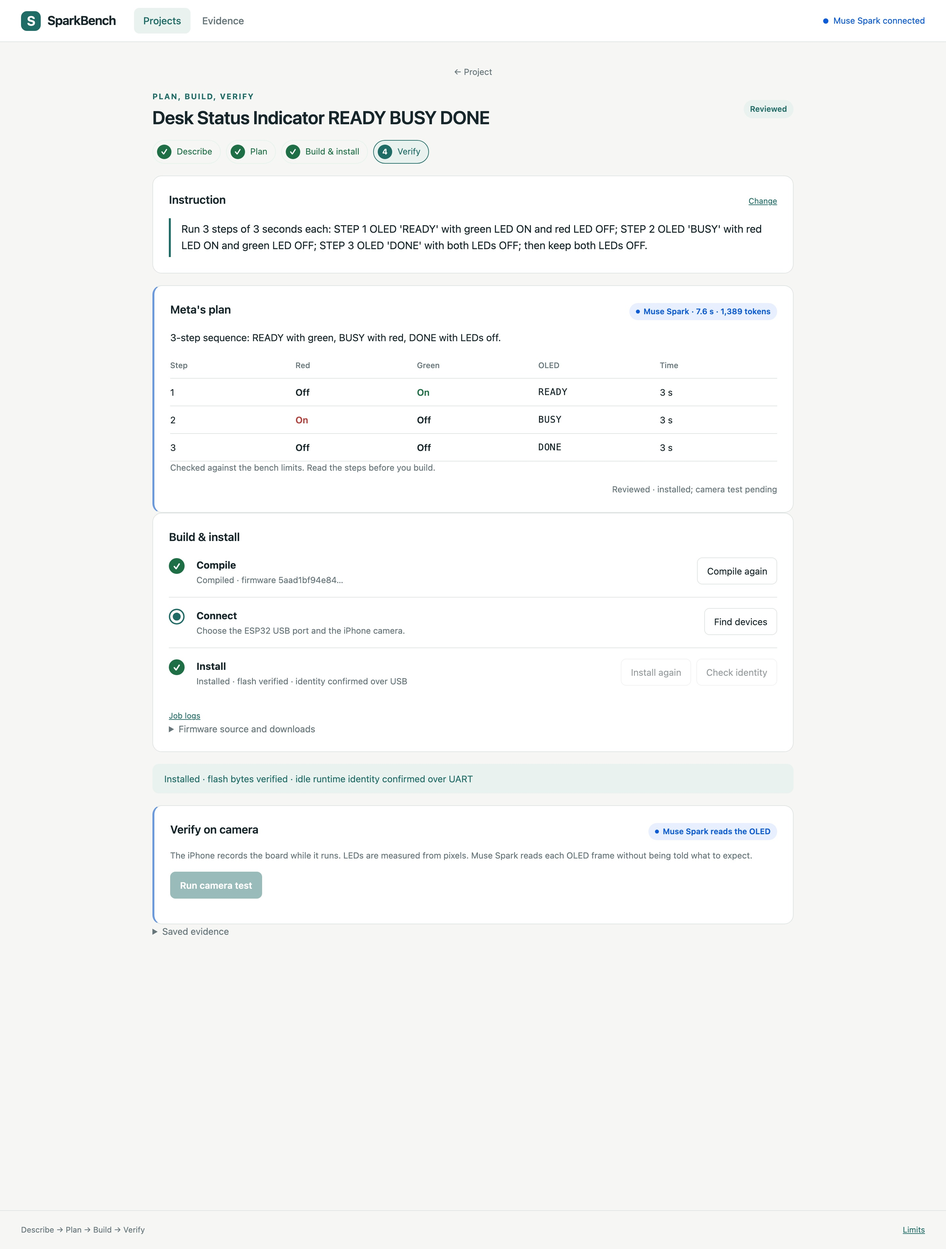
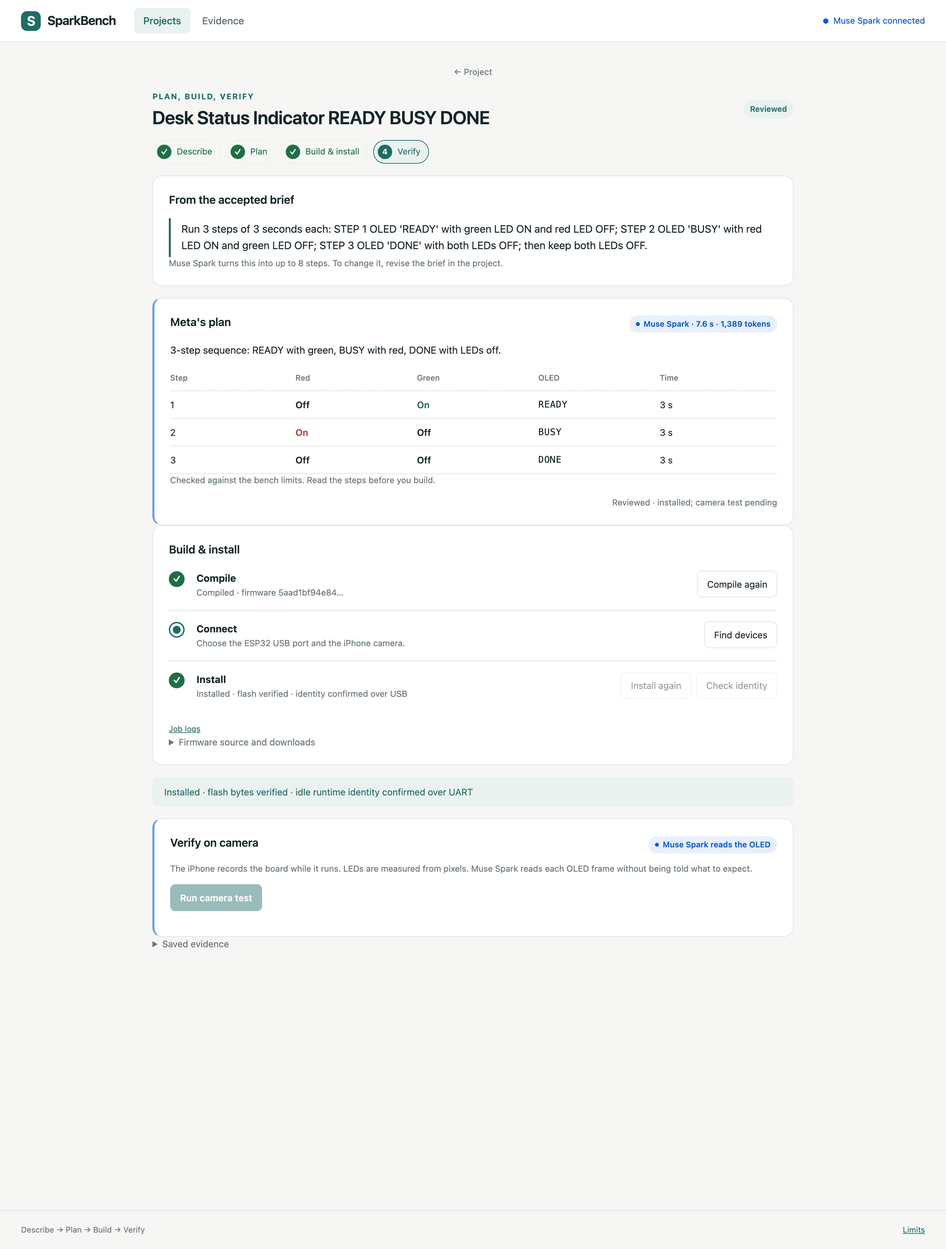
Fold quick plans into projects
A quick plan was the planner step of a project run on its own, and
every project plan also showed up again in the quick-plan list. Make
the project the only entry point.

Remove the quick-plan section from the home page and the instruction
editor from the plan page, which could create plans unlinked to any
project. The plan page now shows the accepted brief's firmware intent
as read-only, is titled with the project name and links back to it.
A clarification, unsupported or failed result says what to change in
the project and offers a way back. The project's second button reads
"Prepare a new plan" once a plan exists.

Server endpoints, the planner benchmark and the recorded evidence are
unchanged; the older quick plan's camera tests stay in Evidence.

diff --git a/src/sparkbench/dashboard/static/planning.js b/src/sparkbench/dashboard/static/planning.js
@@ -1,25 +1,29 @@
 'use strict';
+// The plan page always belongs to a project: its instruction is the accepted brief's firmware intent.
 let plannerSession = null, plannerBusy = false, proposalId = null, proposalResult = null, pollVersion = 0;
 const proposalLabels = {queued:'Generating…',generating:'Generating…',ready:'Ready for review',clarify:'Clarification needed',unsupported:'Unsupported',invalid_response:'Invalid response',error:'Request failed',unavailable:'Unavailable'};
-function showPlanner(){selectionVersion++;clearImage();current=null;const p=project;$('planner-title').textContent=p?(p.accepted?.brief?.title||p.draft?.title||'Project plan'):'Quick plan';$('planner-back').textContent=p?'← Project':'← Projects';showView('planner');}
-// After a plan exists the instruction is shown as a quote; "Change" reopens the editor.
-function showInstructionEditor(edit){$('intent-form').hidden=!edit;$('instruction-view').hidden=edit||!$('instruction-view').textContent;$('edit-instruction').hidden=edit;}
-$('edit-instruction').addEventListener('click',()=>{showInstructionEditor(true);$('intent-input').focus();});
-$('planner-back').addEventListener('click',()=>{if(typeof project!=='undefined'&&project)openProject(project.id);else showView('projects');});
+const unresolvedNotes = {
+  clarify: 'Muse Spark needs an answer first. Reply in the project conversation, accept the revised brief, then prepare the plan again.',
+  unsupported: 'The bench cannot do this. Revise the idea in the project, then prepare the plan again.',
+  invalid_response: 'No usable plan came back and nothing was retried. Prepare the plan again from the project.',
+  error: 'The request failed and nothing was retried. Prepare the plan again from the project.',
+};
+function showPlanner(){selectionVersion++;clearImage();current=null;$('planner-title').textContent=project?.accepted?.brief?.title||project?.draft?.title||'Plan';showView('planner');}
+function backToProject(){if(project)openProject(project.id);else showView('projects');}
+$('planner-back').addEventListener('click',backToProject);$('plan-back-to-project').addEventListener('click',backToProject);
 function plannerError(message){$('planner-error').hidden=false;$('planner-error').textContent=message;}
-function updateGenerate(){ $('generate-plan').disabled=plannerBusy||!plannerSession?.planning_available; $('generate-plan').textContent=plannerBusy?'Waiting for Meta…':'Ask Meta for a plan'; }
 async function planningPost(path, data){if(!plannerSession)throw new Error('Local session unavailable. Reload the page.');const response=await fetch(path,{method:'POST',headers:{'Content-Type':'application/json','X-SparkBench-Session':plannerSession.session_token},body:JSON.stringify(data)});const result=await response.json();if(!response.ok)throw new Error(result.error||'Planning request failed');return result;}
-function renderProposal(result){proposalResult=result;proposalId=result.id;$('planner-error').hidden=true;$('planner-empty').hidden=true;$('planner-result').hidden=false;$('instruction-view').textContent=result.instruction||'';showInstructionEditor(['clarify','unsupported','invalid_response','error'].includes(result.status));$('proposal-status').textContent=result.review_status==='reviewed'?'Reviewed':proposalLabels[result.status]||'Unavailable';$('proposal-status').dataset.state=result.status;$('proposal-steps').replaceChildren();const p=result.proposal;$('proposal-summary').textContent=p?.summary||result.error||'Generating a proposal from your instruction…';$('proposal-question').hidden=!p?.question;$('proposal-question').textContent=p?.question||'';$('proposal-table').hidden=!p?.steps?.length;
-for(const [i,step] of (p?.steps||[]).entries()){const tr=node('tr');[[i+1],[step.red?'On':'Off',step.red?'on-red':''],[step.green?'On':'Off',step.green?'on-green':''],[step.text,'oled'],['3 s']].forEach(([v,c])=>tr.append(node('td',String(v),c||undefined)));$('proposal-steps').append(tr);}
-$('proposal-validation').textContent=result.status==='ready'?'Checked against the bench limits. Read the steps before you build.':result.status==='clarify'?'Edit the instruction with your answer and submit again when ready. No plan is executable.':result.status==='unsupported'?'This instruction cannot be represented by the supported bench. No executable plan was saved.':'No executable proposal is available.';
-$('review-plan').hidden=result.status!=='ready'||result.review_status==='reviewed';$('review-plan').disabled=false;$('review-status').textContent=result.review_status==='reviewed'?'Reviewed · not run on hardware':'';$('proposal-usage').replaceChildren();
-const tokens=result.usage?.total_tokens??((result.usage?.prompt_tokens??0)+(result.usage?.completion_tokens??0)||undefined);const metrics=['Muse Spark'];if(typeof result.latency_seconds==='number')metrics.push(result.latency_seconds.toFixed(1)+' s');if(tokens)metrics.push(tokens.toLocaleString()+' tokens');$('proposal-usage').textContent=metrics.join(' · ');$('proposal-usage').title=result.model||'';if(window.executionProposal)window.executionProposal(result);if(window.loadFirmwareSource)window.loadFirmwareSource(result);
-$('proposal-evidence').replaceChildren();for(const [label,v] of Object.entries({'Instruction':result.instruction,'Saved proposal':'runs/planning/intent-v1/'+result.id,'Plan SHA-256':result.plan_sha256||'No executable plan','Model':result.model||'Unavailable','Tokens':result.usage?(result.usage.prompt_tokens??'?')+' in / '+(result.usage.completion_tokens??'?')+' out':'Unavailable','API requests':result.api_requests??'Unavailable'})){$('proposal-evidence').append(node('dt',label),node('dd',String(v)));}}
-async function pollProposal(id,version){try{const result=await api('/api/plans/'+id);if(version!==pollVersion)return;renderProposal(result);if(['queued','generating'].includes(result.status)){setTimeout(()=>pollProposal(id,version),700);return;}plannerBusy=false;updateGenerate();await refreshSavedPlans();}catch(e){if(version!==pollVersion)return;plannerBusy=false;updateGenerate();plannerError(e.message);}}
-async function openSavedProposal(id){if(plannerBusy){showPlanner();return;}const version=++pollVersion;showPlanner();try{const result=await api('/api/plans/'+id);if(version!==pollVersion)return;$('intent-input').value=result.instruction||'';updateInstructionCount();renderProposal(result);}catch(e){plannerError(e.message);}}
-async function refreshSavedPlans(){try{const data=await api('/api/plans');$('saved-plan-list').replaceChildren(...(data.plans.length?data.plans.map(plan=>{const b=node('button',undefined,'saved-plan-button');b.type='button';b.append(node('strong',plan.instruction||'Saved proposal'),node('small',plan.review_status==='reviewed'?'Reviewed':proposalLabels[plan.status]||'Unavailable'));b.addEventListener('click',()=>{project=null;openSavedProposal(plan.id);});return b;}):[node('p','No quick plans yet.','help')]));}catch(e){$('saved-plan-list').replaceChildren(node('p','Saved proposals unavailable','small muted'));}}
-function updateInstructionCount(){$('instruction-count').textContent=$('intent-input').value.length+' / 2000';}
-$('open-planner').addEventListener('click',()=>{project=null;showPlanner();if(plannerBusy)return;pollVersion++;proposalId=null;proposalResult=null;if(window.executionProposal)window.executionProposal(null);$('intent-input').value='';updateInstructionCount();$('instruction-view').textContent='';showInstructionEditor(true);$('planner-result').hidden=true;$('planner-empty').hidden=false;$('planner-empty').firstElementChild.textContent='Muse Spark turns the instruction into up to 8 steps. You review them before anything is built.';$('planner-error').hidden=true;$('proposal-status').textContent='No plan';setStepper('bench-stepper',2,[1]);});$('intent-input').addEventListener('input',updateInstructionCount);
-$('intent-form').addEventListener('submit',async event=>{event.preventDefault();if(plannerBusy)return;const instruction=$('intent-input').value.trim();if(!instruction)return;plannerBusy=true;updateGenerate();$('planner-error').hidden=true;$('planner-result').hidden=true;$('planner-empty').hidden=false;$('planner-empty').firstElementChild.textContent='Meta is interpreting your instruction. No hardware is connected by this action.';$('proposal-status').textContent='Generating…';const version=++pollVersion;try{const job=await planningPost('/api/plans',{instruction,request_id:crypto.randomUUID().replaceAll('-','')});proposalId=job.id;await pollProposal(job.id,version);}catch(e){plannerBusy=false;updateGenerate();plannerError(e.message);$('proposal-status').textContent='Request failed';}});
-$('review-plan').addEventListener('click',async()=>{if(!proposalResult||proposalResult.status!=='ready')return;$('review-plan').disabled=true;try{const result=await planningPost('/api/plans/'+proposalId+'/review',{plan_sha256:proposalResult.plan_sha256});renderProposal(result);await refreshSavedPlans();}catch(e){plannerError(e.message);$('review-plan').disabled=false;}});
-(async()=>{try{plannerSession=await api('/api/session');const ok=!!plannerSession.planning_available;$('planner-config').textContent=ok?'Muse Spark connected':'Meta key not configured';$('planner-config').dataset.ok=String(ok);$('planner-config').title=ok?plannerSession.model:'Set META_API_KEY and META_MODEL=muse-spark-1.3-contributor in .env';updateGenerate();}catch(e){$('planner-config').textContent='Meta status unavailable';$('planner-config').dataset.ok='false';}await refreshSavedPlans();})();
+function renderProposal(result){proposalResult=result;proposalId=result.id;$('planner-error').hidden=true;$('planner-result').hidden=false;$('instruction-view').textContent=result.instruction||'';
+ $('proposal-status').textContent=result.review_status==='reviewed'?'Reviewed':proposalLabels[result.status]||'Unavailable';$('proposal-status').dataset.state=result.status;$('proposal-steps').replaceChildren();
+ const p=result.proposal;$('proposal-summary').textContent=p?.summary||result.error||'Muse Spark is writing the plan…';$('proposal-question').hidden=!p?.question;$('proposal-question').textContent=p?.question||'';$('proposal-table').hidden=!p?.steps?.length;
+ for(const [i,step] of (p?.steps||[]).entries()){const tr=node('tr');[[i+1],[step.red?'On':'Off',step.red?'on-red':''],[step.green?'On':'Off',step.green?'on-green':''],[step.text,'oled'],['3 s']].forEach(([v,c])=>tr.append(node('td',String(v),c||undefined)));$('proposal-steps').append(tr);}
+ $('proposal-validation').textContent=result.status==='ready'?'Checked against the bench limits. Read the steps before you build.':unresolvedNotes[result.status]||(['queued','generating'].includes(result.status)?'':'No executable plan is available.');
+ $('plan-back-to-project').hidden=!unresolvedNotes[result.status]||!project;
+ $('review-plan').hidden=result.status!=='ready'||result.review_status==='reviewed';$('review-plan').disabled=false;$('review-status').textContent=result.review_status==='reviewed'?'Reviewed · not run on hardware':'';
+ const tokens=result.usage?.total_tokens??((result.usage?.prompt_tokens??0)+(result.usage?.completion_tokens??0)||undefined);const metrics=['Muse Spark'];if(typeof result.latency_seconds==='number')metrics.push(result.latency_seconds.toFixed(1)+' s');if(tokens)metrics.push(tokens.toLocaleString()+' tokens');$('proposal-usage').textContent=metrics.join(' · ');$('proposal-usage').title=result.model||'';
+ if(window.executionProposal)window.executionProposal(result);if(window.loadFirmwareSource)window.loadFirmwareSource(result);
+ $('proposal-evidence').replaceChildren();for(const [label,v] of Object.entries({'Instruction':result.instruction,'Saved plan':'runs/planning/intent-v1/'+result.id,'Plan SHA-256':result.plan_sha256||'No executable plan','Model':result.model||'Unavailable','Tokens':result.usage?(result.usage.prompt_tokens??'?')+' in / '+(result.usage.completion_tokens??'?')+' out':'Unavailable','API requests':result.api_requests??'Unavailable'})){$('proposal-evidence').append(node('dt',label),node('dd',String(v)));}}
+async function pollProposal(id,version){try{const result=await api('/api/plans/'+id);if(version!==pollVersion)return;renderProposal(result);if(['queued','generating'].includes(result.status)){setTimeout(()=>pollProposal(id,version),700);return;}plannerBusy=false;}catch(e){if(version!==pollVersion)return;plannerBusy=false;plannerError(e.message);}}
+async function openSavedProposal(id){if(plannerBusy){showPlanner();return;}const version=++pollVersion;showPlanner();try{const result=await api('/api/plans/'+id);if(version!==pollVersion)return;renderProposal(result);}catch(e){plannerError(e.message);}}
+$('review-plan').addEventListener('click',async()=>{if(!proposalResult||proposalResult.status!=='ready')return;$('review-plan').disabled=true;try{const result=await planningPost('/api/plans/'+proposalId+'/review',{plan_sha256:proposalResult.plan_sha256});renderProposal(result);}catch(e){plannerError(e.message);$('review-plan').disabled=false;}});
+(async()=>{try{plannerSession=await api('/api/session');const ok=!!plannerSession.planning_available;$('planner-config').textContent=ok?'Muse Spark connected':'Meta key not configured';$('planner-config').dataset.ok=String(ok);$('planner-config').title=ok?plannerSession.model:'Set META_API_KEY and META_MODEL=muse-spark-1.3-contributor in .env';}catch(e){$('planner-config').textContent='Meta status unavailable';$('planner-config').dataset.ok='false';}})();

diff --git a/src/sparkbench/dashboard/static/projects.js b/src/sparkbench/dashboard/static/projects.js
@@ -47,7 +47,7 @@ async function sendGuide(message){if(!project||project.busy||guideCapture)return
 $('open-guide').addEventListener('click',()=>{projectVersion++;project=null;showGuide();fillProfile();clearProjectPhotos();$('project-error').hidden=true;renderProject();});
 $('project-form').addEventListener('submit',async e=>{e.preventDefault();$('create-project').disabled=true;$('project-error').hidden=true;try{if(!plannerSession?.planning_available)throw new Error('Configure the existing Meta Contributor API locally before asking for a project.');project=await planningPost('/api/projects',{idea:$('project-idea').value,...profileValues(),request_id:uid()});fillProfile();renderProject();await refreshProjects();await sendGuide('Help me plan this idea. Clarify material missing details, suggest the required parts from the supported catalog, and give me one next step.');}catch(e){projectError(e.message);}finally{$('create-project').disabled=false;}});
 $('save-profile').addEventListener('click',()=>saveProject());$('save-inventory').addEventListener('click',()=>saveProject());$('guide-question-form').addEventListener('submit',e=>{e.preventDefault();sendGuide($('guide-question').value.trim());});
-$('project-firmware').addEventListener('click',async()=>{if(!project?.accepted)return;try{if(!await saveProject())return;const job=await planningPost('/api/projects/'+project.id+'/firmware',{accepted_sha256:project.accepted.sha256,request_id:uid()});plannerBusy=true;updateGenerate();showPlanner();pollProposal(job.id,++pollVersion);}catch(e){projectError(e.message);}});
+$('project-firmware').addEventListener('click',async()=>{if(!project?.accepted)return;try{if(!await saveProject())return;const job=await planningPost('/api/projects/'+project.id+'/firmware',{accepted_sha256:project.accepted.sha256,request_id:uid()});plannerBusy=true;showPlanner();pollProposal(job.id,++pollVersion);}catch(e){projectError(e.message);}});
 function clearProjectPhotos(){for(const p of projectPhotos)URL.revokeObjectURL(p.url);projectPhotos=[];$('guide-photos').value='';renderAttachments();}
 function renderAttachments(){$('guide-attachments').replaceChildren(...projectPhotos.map((p,i)=>{const figure=node('figure');const img=node('img');img.src=p.url;img.alt=p.name;const b=node('button','Remove','button');b.type='button';b.addEventListener('click',()=>{URL.revokeObjectURL(p.url);projectPhotos.splice(i,1);renderAttachments();});figure.append(img,node('figcaption',p.name,'small muted'),b);return figure;}));}
 async function attachFile(file){if(projectPhotos.length>=3)throw new Error('Attach up to three photos per question.');if(!['image/jpeg','image/png'].includes(file.type))throw new Error('Use JPEG or PNG photos; export HEIC as JPEG first.');if(file.size>20_000_000)throw new Error('Choose a photo smaller than 20 MB.');const bitmap=await createImageBitmap(file);if(bitmap.width*bitmap.height>50_000_000){bitmap.close();throw new Error('Please resize this very large image.');}const scale=Math.min(1,1600/Math.max(bitmap.width,bitmap.height));const canvas=document.createElement('canvas');canvas.width=Math.round(bitmap.width*scale);canvas.height=Math.round(bitmap.height*scale);canvas.getContext('2d').drawImage(bitmap,0,0,canvas.width,canvas.height);bitmap.close();const encoded=canvas.toDataURL('image/jpeg',.88);const blob=new Blob([Uint8Array.from(atob(encoded.split(',')[1]),c=>c.charCodeAt(0))],{type:'image/jpeg'});projectPhotos.push({name:(file.name.replace(/\.[^.]+$/,'')+'.jpg').slice(0,120),data:encoded.split(',')[1],url:URL.createObjectURL(blob)});renderAttachments();}

diff --git a/src/sparkbench/dashboard/static/index.html b/src/sparkbench/dashboard/static/index.html
@@ -51,12 +51,6 @@
   <section class="home-section" aria-labelledby="projects-heading">
     <div class="section-head"><h2 id="projects-heading">Your projects</h2></div>
     <nav id="project-list" class="card-list" aria-label="Saved projects"></nav>
-    <details class="quiet">
-      <summary>Quick plan without a project</summary>
-      <p class="help">Send one instruction straight to the planner, then build and test it.</p>
-      <div class="actions"><button id="open-planner" class="button" type="button">New quick plan</button></div>
-      <nav id="saved-plan-list" class="card-list compact" aria-label="Saved quick plans"></nav>
-    </details>
   </section>
 </section>
 
@@ -157,8 +151,8 @@
 
 <!-- Plan, build, verify: steps 2–4 -->
 <section id="planning-workspace" class="view" hidden aria-label="Plan, build and verify">
-  <button id="planner-back" class="back-link" type="button">← Back</button>
-  <div class="page-head"><div><p class="eyebrow">Plan, build, verify</p><h1 id="planner-title">Quick plan</h1></div><span id="proposal-status" class="pill">No plan</span></div>
+  <button id="planner-back" class="back-link" type="button">← Project</button>
+  <div class="page-head"><div><p class="eyebrow">Plan, build, verify</p><h1 id="planner-title">Plan</h1></div><span id="proposal-status" class="pill">No plan</span></div>
   <ol class="stepper" id="bench-stepper">
     <li data-step="1" data-target="back" class="done"><span>1</span>Describe</li>
     <li data-step="2" data-target="#plan-card" class="current"><span>2</span>Plan</li>
@@ -168,17 +162,9 @@
   <p id="planner-error" class="error-line" role="alert" hidden></p>
 
   <section class="card" id="instruction-card">
-    <div class="card-head"><h2>Instruction</h2><button id="edit-instruction" class="link-button" type="button" hidden>Change</button></div>
-    <p id="instruction-view" class="idea-quote" hidden></p>
-    <form id="intent-form">
-      <label for="intent-input" class="sr-only">Instruction</label>
-      <textarea id="intent-input" maxlength="2000" rows="3" required placeholder="Count 0 to 3 on the OLED. Green for even numbers, red for odd, then both off and DONE."></textarea>
-      <div class="actions">
-        <button id="generate-plan" class="primary-button" type="submit" disabled>Ask Meta for a plan</button>
-        <span id="instruction-count" class="help">0 / 2000</span>
-      </div>
-    </form>
-    <div id="planner-empty"><p class="help">Muse Spark turns the instruction into up to 8 steps. You review them before anything is built.</p></div>
+    <div class="card-head"><h2>From the accepted brief</h2></div>
+    <p id="instruction-view" class="idea-quote"></p>
+    <p class="help">Muse Spark turns this into up to 8 steps. To change it, revise the brief in the project.</p>
   </section>
 
   <div id="planner-result" hidden>
@@ -190,6 +176,7 @@
       <p id="proposal-validation" class="help"></p>
       <div class="actions">
         <button id="review-plan" class="primary-button" type="button" hidden>Looks right, mark reviewed</button>
+        <button id="plan-back-to-project" class="primary-button" type="button" hidden>Back to the project</button>
         <span id="review-status" class="help"></span>
       </div>
     </section>

diff --git a/src/sparkbench/dashboard/static/lifecycle.js b/src/sparkbench/dashboard/static/lifecycle.js
@@ -12,7 +12,7 @@ window.renderProjectFirmware=function(snapshot){lifecycleSnapshot=snapshot;$('pr
  const installed=snapshot.recorded_installed;lifecycleField('Recorded on board',installed?.firmware_sha256);lifecycleField('Version match',snapshot.matches_recorded_installation?'Matches this project’s compiled application':'This project’s compiled application is not confirmed as installed');
  const identity=snapshot.runtime_identity;lifecycleField('Runtime identity',identity?.status==='pass'?'Confirmed over UART · '+date(identity.checked_at_utc):identity?'Unconfirmed':'Not checked for this version');
  const camera=snapshot.camera_result;lifecycleField('Camera behavior',camera?camera.status==='pass'?'Passed sampled LED/OLED windows':camera.status==='fail'?'Behavior mismatch':camera.status==='running'?'In progress':'Incomplete / no physical pass':'Not tested for this compiled version');
- $('lifecycle-scope').textContent=snapshot.scope;$('lifecycle-open').hidden=!snapshot.proposal;$('lifecycle-open').onclick=()=>openSavedProposal(snapshot.proposal.id);
+ $('project-firmware').textContent=snapshot.proposal?'Prepare a new plan':'Prepare firmware plan';$('lifecycle-scope').textContent=snapshot.scope;$('lifecycle-open').hidden=!snapshot.proposal;$('lifecycle-open').onclick=()=>openSavedProposal(snapshot.proposal.id);
  $('lifecycle-jobs').replaceChildren(...snapshot.recent_jobs.map(job=>{const b=node('button',job.action+' · '+job.status+' · '+date(job.started_at_utc),'button job-history-button');b.type='button';b.addEventListener('click',()=>window.inspectFirmwareJob(job.id));return b;}));
 };
 window.pollProjectFirmware=async function(id,version){try{if(version!==projectVersion||project?.id!==id||$('guide-workspace').hidden)return;const status=await api('/api/projects/'+id+'/firmware-status');if(version!==projectVersion||project?.id!==id)return;window.renderProjectFirmware(status);setTimeout(()=>window.pollProjectFirmware(id,version),1800);}catch(e){if(version===projectVersion)$('lifecycle-next').textContent='Firmware status unavailable. Reopen the saved project to check its records.';}};

diff --git a/docs/intent-planning.md b/docs/intent-planning.md
@@ -1,13 +1,13 @@
 # Natural-language planning workspace
 
-Start `.venv/bin/python -m sparkbench dashboard`, then choose **Quick plan without a project → New quick plan** on the Projects page, or **Open plan & bench →** from a project. Enter an instruction and select **Ask Meta for a plan**. This is an explicit paid API action using the existing `muse-spark-1.3-contributor` configuration. Opening the dashboard or a saved proposal makes no model request.
+Start `.venv/bin/python -m sparkbench dashboard`, open a project, accept its brief and select **Prepare firmware plan**. SparkBench sends the brief's firmware intent to the planner. This is an explicit paid API action using the existing `muse-spark-1.3-contributor` configuration. Opening the dashboard or a saved plan makes no model request. The dashboard no longer offers a separate quick-plan entry; the planner's HTTP endpoint and the command-line benchmark are unchanged.
 
 Meta receives the instruction and a fixed capability contract. It does not receive the benchmark's expected answer, an existing completed step table, camera measurements or a pass/fail oracle. It interprets order, counting, parity and other finite rules into up to eight LED/OLED steps. Every step has a fixed three-second duration; labels have 1–16 uppercase ASCII characters within the existing trusted data language. A proposed mapping is supplied by local code, never chosen by the model; any future live use still needs the appropriate hardware identity/mapping checks.
 
 Possible results:
 
 - **Ready for review:** locally valid step data. This is not semantic or physical acceptance. Inspect the steps and optionally mark the exact proposal reviewed.
-- **Clarification needed:** answer the displayed question by editing the instruction and explicitly submitting again. No executable plan is saved.
+- **Clarification needed:** answer the displayed question in the project conversation, accept the revised brief, then prepare the plan again. No executable plan is saved.
 - **Unsupported:** hardware, timing, code or sequence length exceeds the supported contract. No executable plan is saved.
 - **Invalid response / request failed:** retained as a failure. There is no retry, provider fallback or automatic repair request.
 

diff --git a/docs/dashboard.md b/docs/dashboard.md
@@ -24,7 +24,7 @@ Source report, frozen specification, camera metadata and frame index are checked
 
 The catalog is explicit in `src/sparkbench/dashboard/catalog.py`; the incomplete analysis intentionally references its original `restored-positive-control/capture` images. No current calibration/default file is substituted for a recorded run's frozen specification.
 
-The plan page is the [Meta intent planner](intent-planning.md). It opens from a project's **Open plan & bench →** button, or from **Quick plan without a project** on the Projects page. Saved proposals and recorded evidence remain read-only to browse. **Ask Meta for a plan** makes a planning request; **Run camera test** makes separate Meta OLED-reading requests. The current servo angle and full-rig acceptance remain unmeasured/incomplete. Evidence-grounded failure diagnosis remains pending.
+The plan page is the [Meta intent planner](intent-planning.md). It opens from a project's **Open plan & bench →** button. Every plan belongs to a project: the planner receives the accepted brief's firmware intent, and changing that intent means revising the brief. Saved proposals and recorded evidence remain read-only to browse. **Prepare firmware plan** on a project makes a planning request; **Run camera test** makes separate Meta OLED-reading requests. The current servo angle and full-rig acceptance remain unmeasured/incomplete. Evidence-grounded failure diagnosis remains pending.
 
 ## Run a reviewed LED/OLED plan
 

diff --git a/README.md b/README.md
@@ -122,7 +122,7 @@ Host tests (222, no hardware, no network):
 ```
 
 Recorded evidence (about 7 GB of frames and logs under `runs/`) is not in this repository, so a
-fresh clone shows the Projects page and planner but an empty Evidence tab. The reports
+fresh clone shows the Projects page but an empty Evidence tab and no proof cards. The reports
 quoted above are summarised in [docs/live-validation.md](docs/live-validation.md) and
 [docs/demo.md](docs/demo.md).
 
